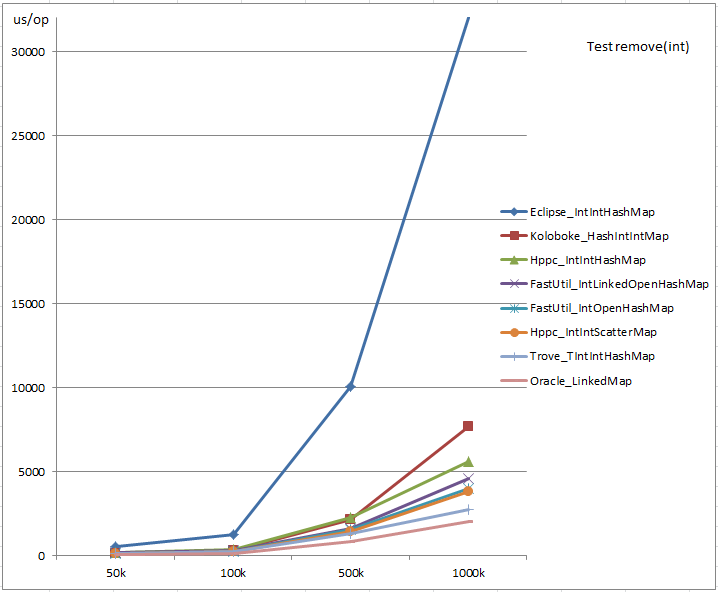
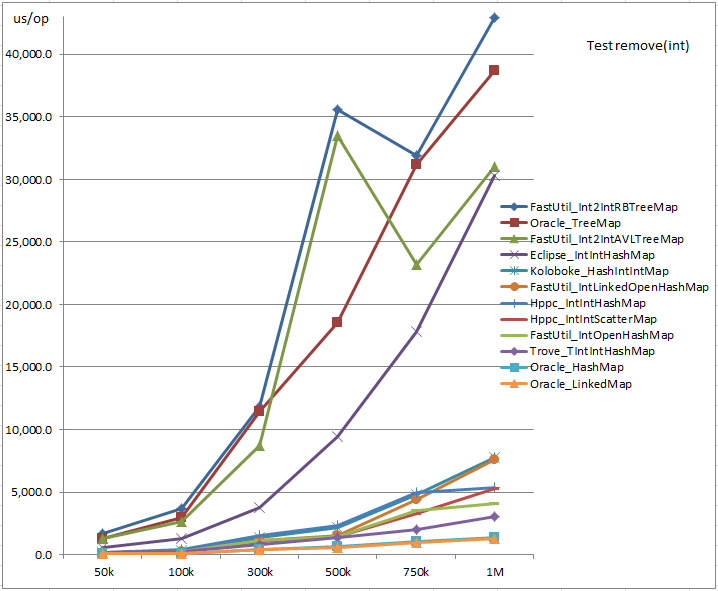
add new test & result

diff --git a/src/main/java/primitive/map/int2int/TestRemoveIntFromMap.java b/src/main/java/primitive/map/int2int/TestRemoveIntFromMap.java
@@ -41,9 +41,8 @@ public class TestRemoveIntFromMap {
 
     @Benchmark
     public void test_Oracle_HashMap() {
-        int count = 0;
         for(int i = 0; i < size; i+=3) {
-            count += map1.remove(i);
+            map1.remove(i);
         }
     }
 
@@ -97,20 +96,6 @@ public class TestRemoveIntFromMap {
     }
 
     @Benchmark
-    public void test_FastUtil_Int2IntAVLTreeMap() {
-        for(int i = 0; i < size; i+=3) {
-            map11.remove(i);
-        }
-    }
-
-    @Benchmark
-    public void test_FastUtil_Int2IntRBTreeMap() {
-        for(int i = 0; i < size; i+=3) {
-            map12.remove(i);
-        }
-    }
-
-    @Benchmark
     public void test_Trove_TIntIntHashMap() {
         for(int i = 0; i < size; i+=3) {
             map9.remove(i);
@@ -121,6 +106,20 @@ public class TestRemoveIntFromMap {
     public void test_Eclipse_IntIntHashMap() {
         for(int i = 0; i < size; i+=3) {
             map10.remove(i);
+        }
+    }
+
+    @Benchmark
+    public void test_FastUtil_Int2IntAVLTreeMap() {
+        for(int i = 0; i < size; i+=3) {
+            map11.remove(i);
+        }
+    }
+
+    @Benchmark
+    public void test_FastUtil_Int2IntRBTreeMap() {
+        for(int i = 0; i < size; i+=3) {
+            map12.remove(i);
         }
     }
 
@@ -161,7 +160,7 @@ public class TestRemoveIntFromMap {
     public static void main(String[] args) throws RunnerException {
         Options opt = new OptionsBuilder()
                 .include(TestRemoveIntFromMap.class.getSimpleName())
-                .param("size","50000","100000","500000","1000000")
+                .param("size","50000","100000","300000","500000","750000","1000000")
                 .build();
 
         new Runner(opt).run();

diff --git a/src/main/java/primitive/map/int2int/TestPutIntIntToMaps.java b/src/main/java/primitive/map/int2int/TestPutIntIntToMaps.java
@@ -49,7 +49,7 @@ public class TestPutIntIntToMaps {
     }
 
     @Benchmark
-    public void test_Oracle_LinkedMap() {
+    public void test_Oracle_LinkedHashMap() {
         Map<Integer,Integer> map = new LinkedHashMap<>();
         for(int i = 0; i < size; i+=2) {
             map.put(i,i);
